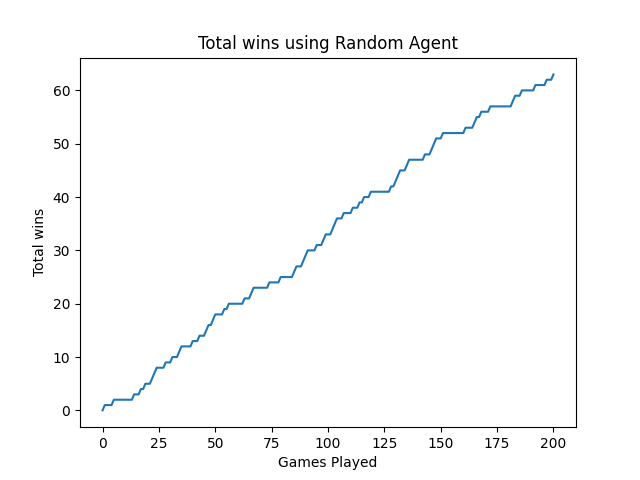
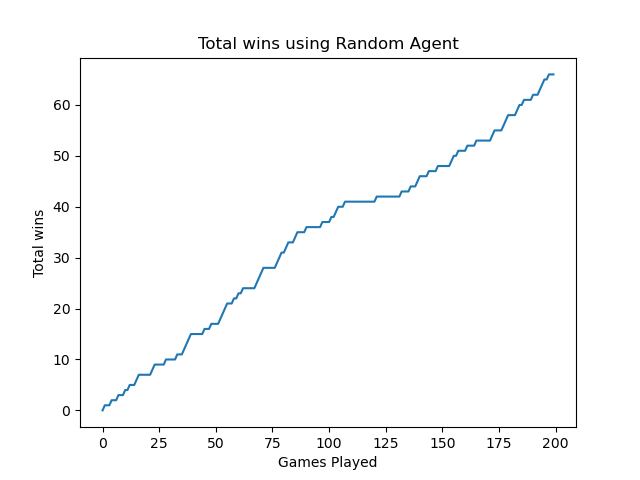
Merging

diff --git a/main.py b/main.py
@@ -1,3 +1,5 @@
+from neurom.view.matplotlib_utils import plot_legend
+
 from agent import RandomAgent, CardCountingAgent
 from blackjack import Blackjack
 from visualizations import plot_wins, round_compare_visualization
@@ -67,5 +69,7 @@ def play_multiple_rounds(n):
 #states, actions, _, results = play_round(bj, RandomAgent())
 #round_compare_visualization(bj, states, actions, RandomAgent())
 plot_wins(play_multiple_rounds(20), "Random Agent")
+plot_wins(play_multiple_rounds(20), "Card counting Agent")
+plot_legend(["Random", "Card Counting"])
 
-print(play_round(bj, RandomAgent()))
+print(play_round(bj, CardCountingAgent()))
